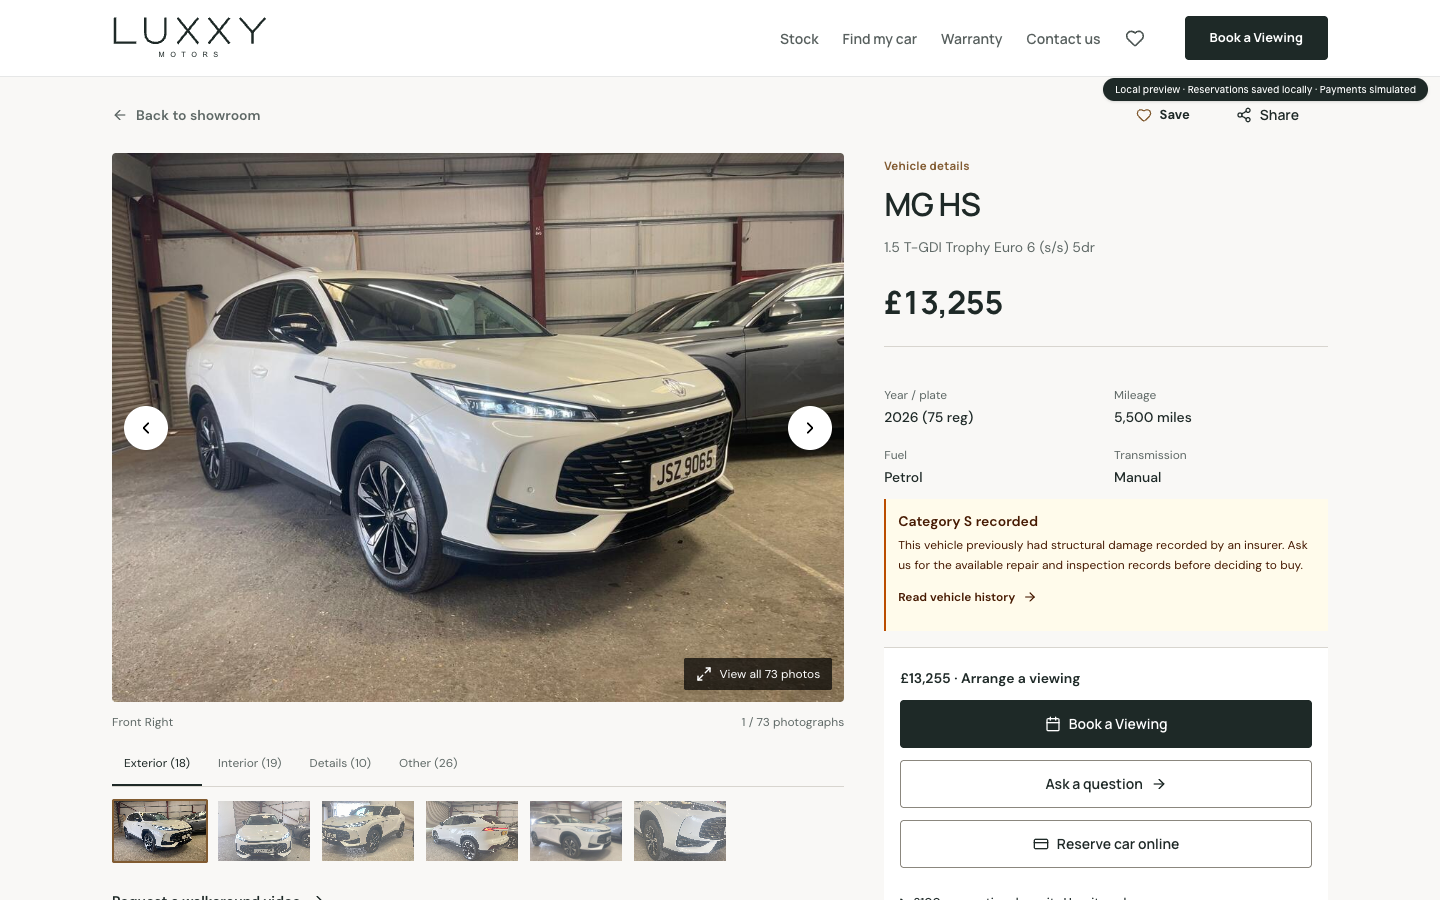
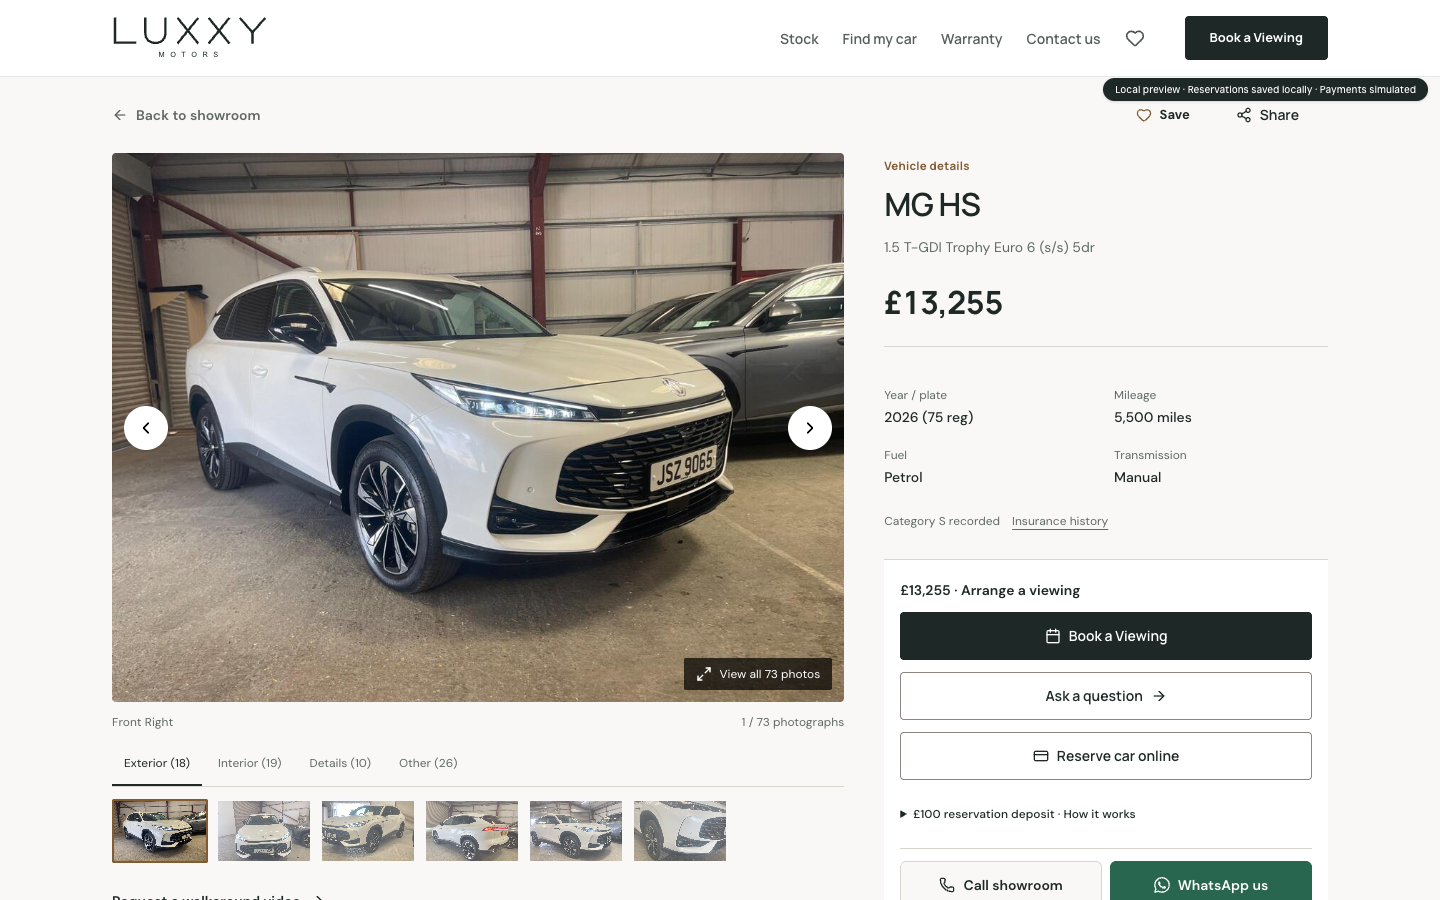
Use understated readable vehicle history disclosures

Changed region(s): [[0.625, 0.56, 0.9375, 1.0], [0.625, 0.9956, 0.6562, 1.0]]

diff --git a/artifacts/luxxy-motors/src/pages/car-detail.tsx b/artifacts/luxxy-motors/src/pages/car-detail.tsx
@@ -271,7 +271,7 @@ export default function CarDetail() {
                 />
               </div>
             )}
-              {damageDisclosure && <div className="mt-3 border-l-2 border-amber-700 bg-amber-50 px-3 py-3 text-amber-950"><p className="text-sm font-semibold">{damageDisclosure.label} recorded</p><p className="mt-1 text-xs leading-5">{damageDisclosure.explanation}</p><a href="#vehicle-history" className="text-link min-h-11 text-xs">Read vehicle history <ArrowRight className="h-3.5 w-3.5" /></a></div>}
+              {damageDisclosure && <div className="mt-3 flex flex-wrap items-center gap-x-3 text-xs leading-5 text-muted-foreground"><p>{damageDisclosure.label} recorded</p><a href="#vehicle-history" className="inline-flex min-h-11 items-center underline underline-offset-4">Insurance history</a></div>}
             <div className="lg:sticky lg:top-[calc(var(--site-header-height,5rem)+1rem)]" data-testid="desktop-purchase-panel">
             <div ref={purchasePanel} className="mt-4 flex flex-col gap-3 border-y border-border bg-card px-4 py-5">
               <p className="hidden lg:block text-sm font-semibold">{car.price ? formatPrice(car.price, car.currency) : "Price on application"} · Arrange a viewing</p>
@@ -456,12 +456,11 @@ export default function CarDetail() {
               </section>
             )}
             {damageDisclosure && (
-              <div id="vehicle-history" className="mt-7 scroll-mt-24 rounded-md border border-amber-700/30 bg-amber-50 p-5">
-                <h3 className="flex items-center gap-2 text-sm font-semibold text-amber-950">
-                  <Info className="h-5 w-5" />
+              <div id="vehicle-history" className="mt-7 scroll-mt-24 border-t border-border pt-4">
+                <h3 className="text-xs font-medium text-muted-foreground">
                   Insurance history: {damageDisclosure.label}
                 </h3>
-                <p className="mt-3 text-sm leading-relaxed text-amber-950">
+                <p className="mt-2 text-xs leading-6 text-muted-foreground">
                   {damageDisclosure.explanation}
                 </p>
               </div>

diff --git a/docs/ui-redesign.md b/docs/ui-redesign.md
@@ -519,3 +519,7 @@ Implemented the eight agreed vehicle-page improvements without backend, sales-ru
 Validation: 180 frontend tests passed; full workspace typecheck and builds passed. Seventeen distinct relevant browser checks passed across the gallery, buyer information, part-exchange handoff, enquiry submission, reservations/settings-off behaviour and mobile/desktop layouts. Existing selectors were scoped to distinguish the new summary from the full history section. Final layout rechecks passed at 320, 390 and 1440px, including desktop sticky actions. The existing large-bundle build warning remains. Broader unrelated browser-suite issues documented in deployment.md were outside this change.
 
 Fresh full-page and viewport evidence: `docs/screenshots/vehicle-buying-guide/vehicle-{320,390,1440}[-viewport].png`. Desktop and mobile viewport screenshots were visually inspected. No real WhatsApp messages, calls, payments, migrations or production writes were made.
+
+### Understated insurance-history presentation
+
+Following dealer feedback, the Category S/N disclosure beside the key facts is now a readable 12px neutral text line with an insurance-history link. Removed the amber backgrounds, accent border and warning icon. The full explanation remains in a plain, small-print history section; recorded categories, data and enquiry functionality are unchanged. Frontend typechecking and the three vehicle-guide browser checks at 320, 390 and 1440px passed; screenshots refreshed.
